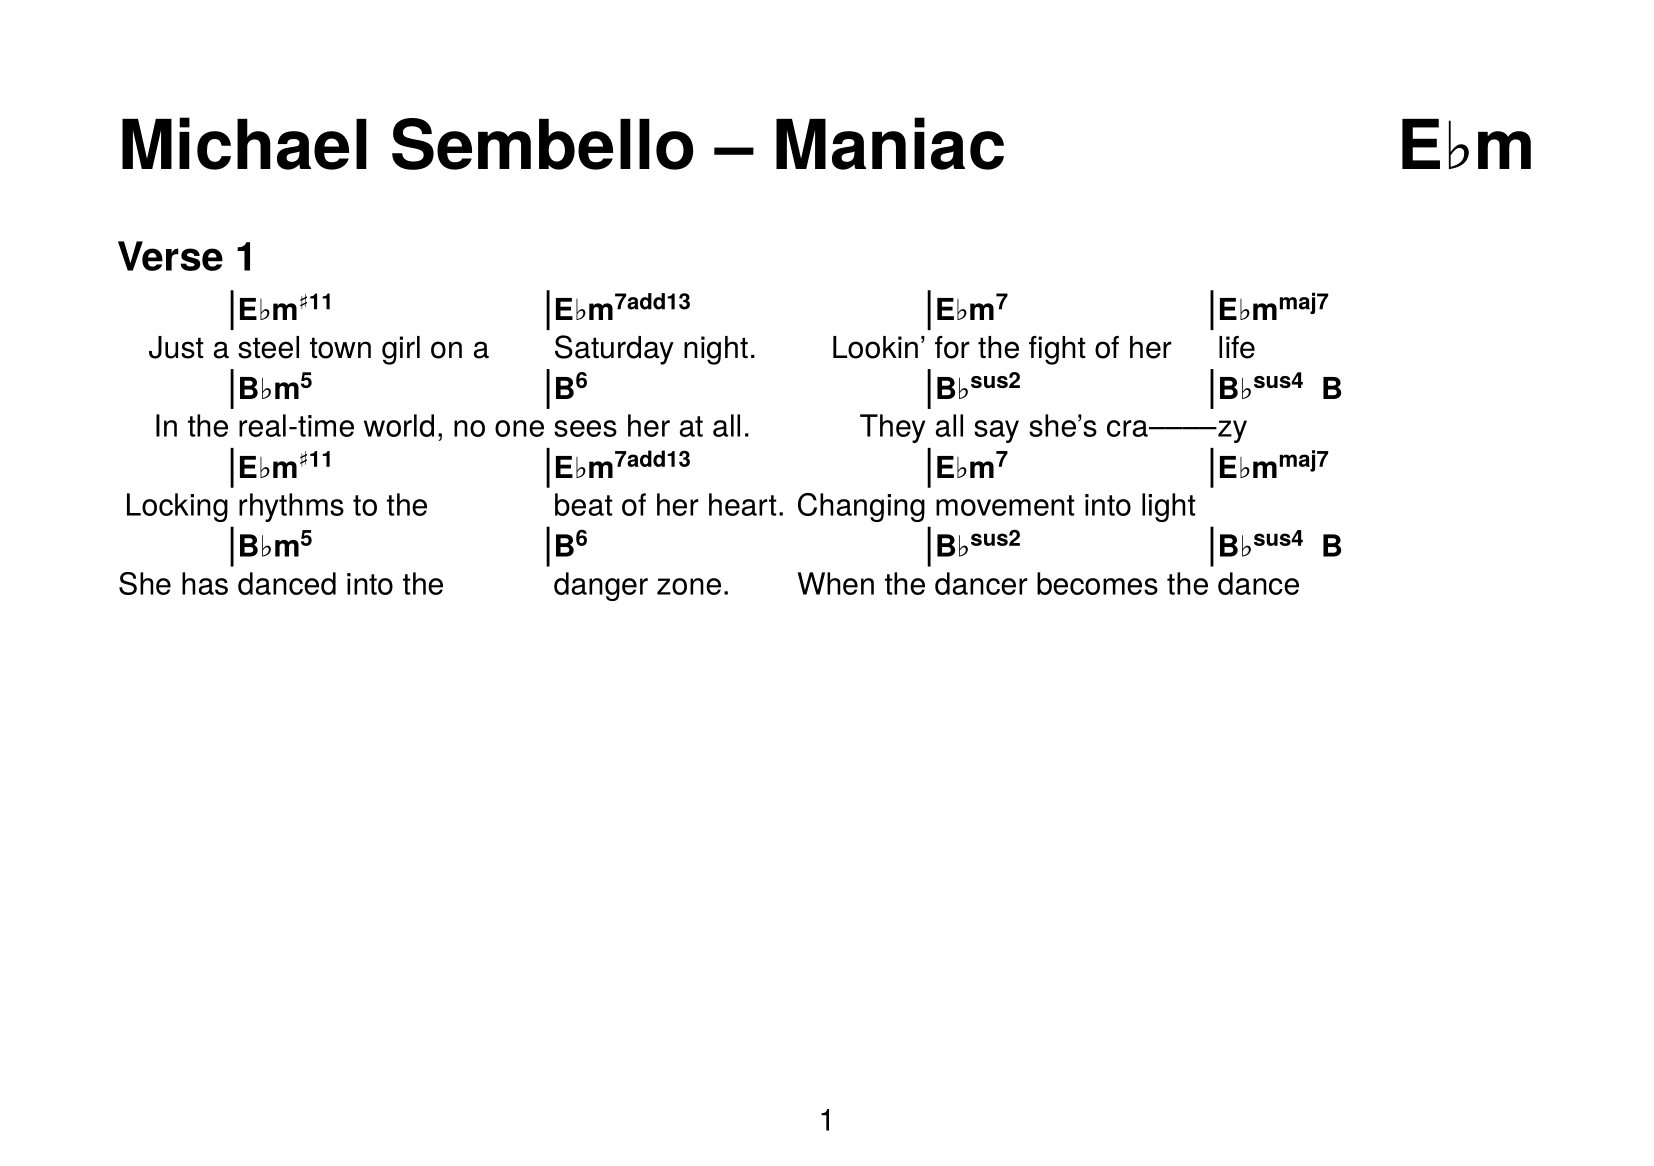
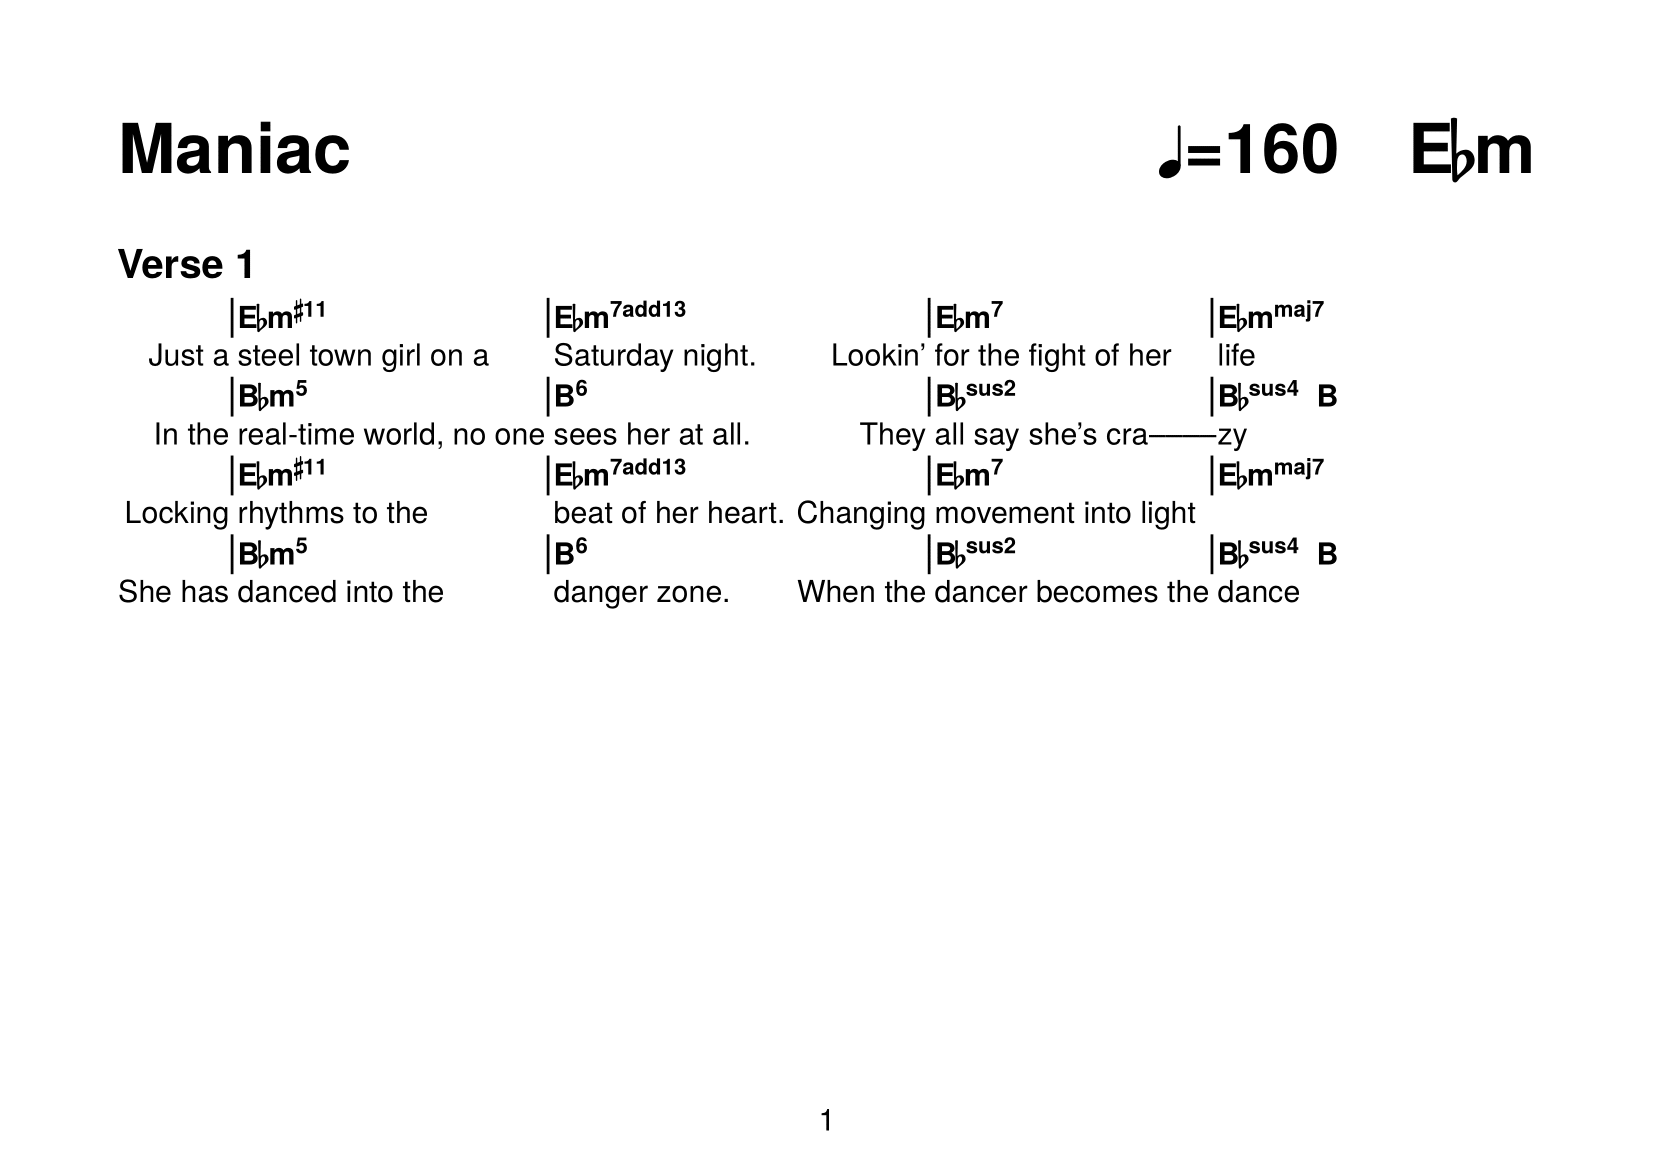
added lilypond symbols and tempo marking

Changed region(s): [[0.0617, 0.2161, 0.8325, 0.5249], [0.0617, 0.0926, 0.6167, 0.1544], [0.6784, 0.0926, 0.925, 0.1544]]

diff --git a/example.tex b/example.tex
@@ -1,8 +1,9 @@
 \documentclass{leadsheet}
 \geometry{a5paper,landscape}
 
-\title{Michael Sembello -- Maniac}
+\title{Maniac}
 \key{Ebm}
+\tempo{160}
 
 \begin{chordprogression}{Verse A}
     |^Ebm#11 >> & |^Ebm7add13 >> & |^Ebm7 >> & |^Ebmmaj7 >>
